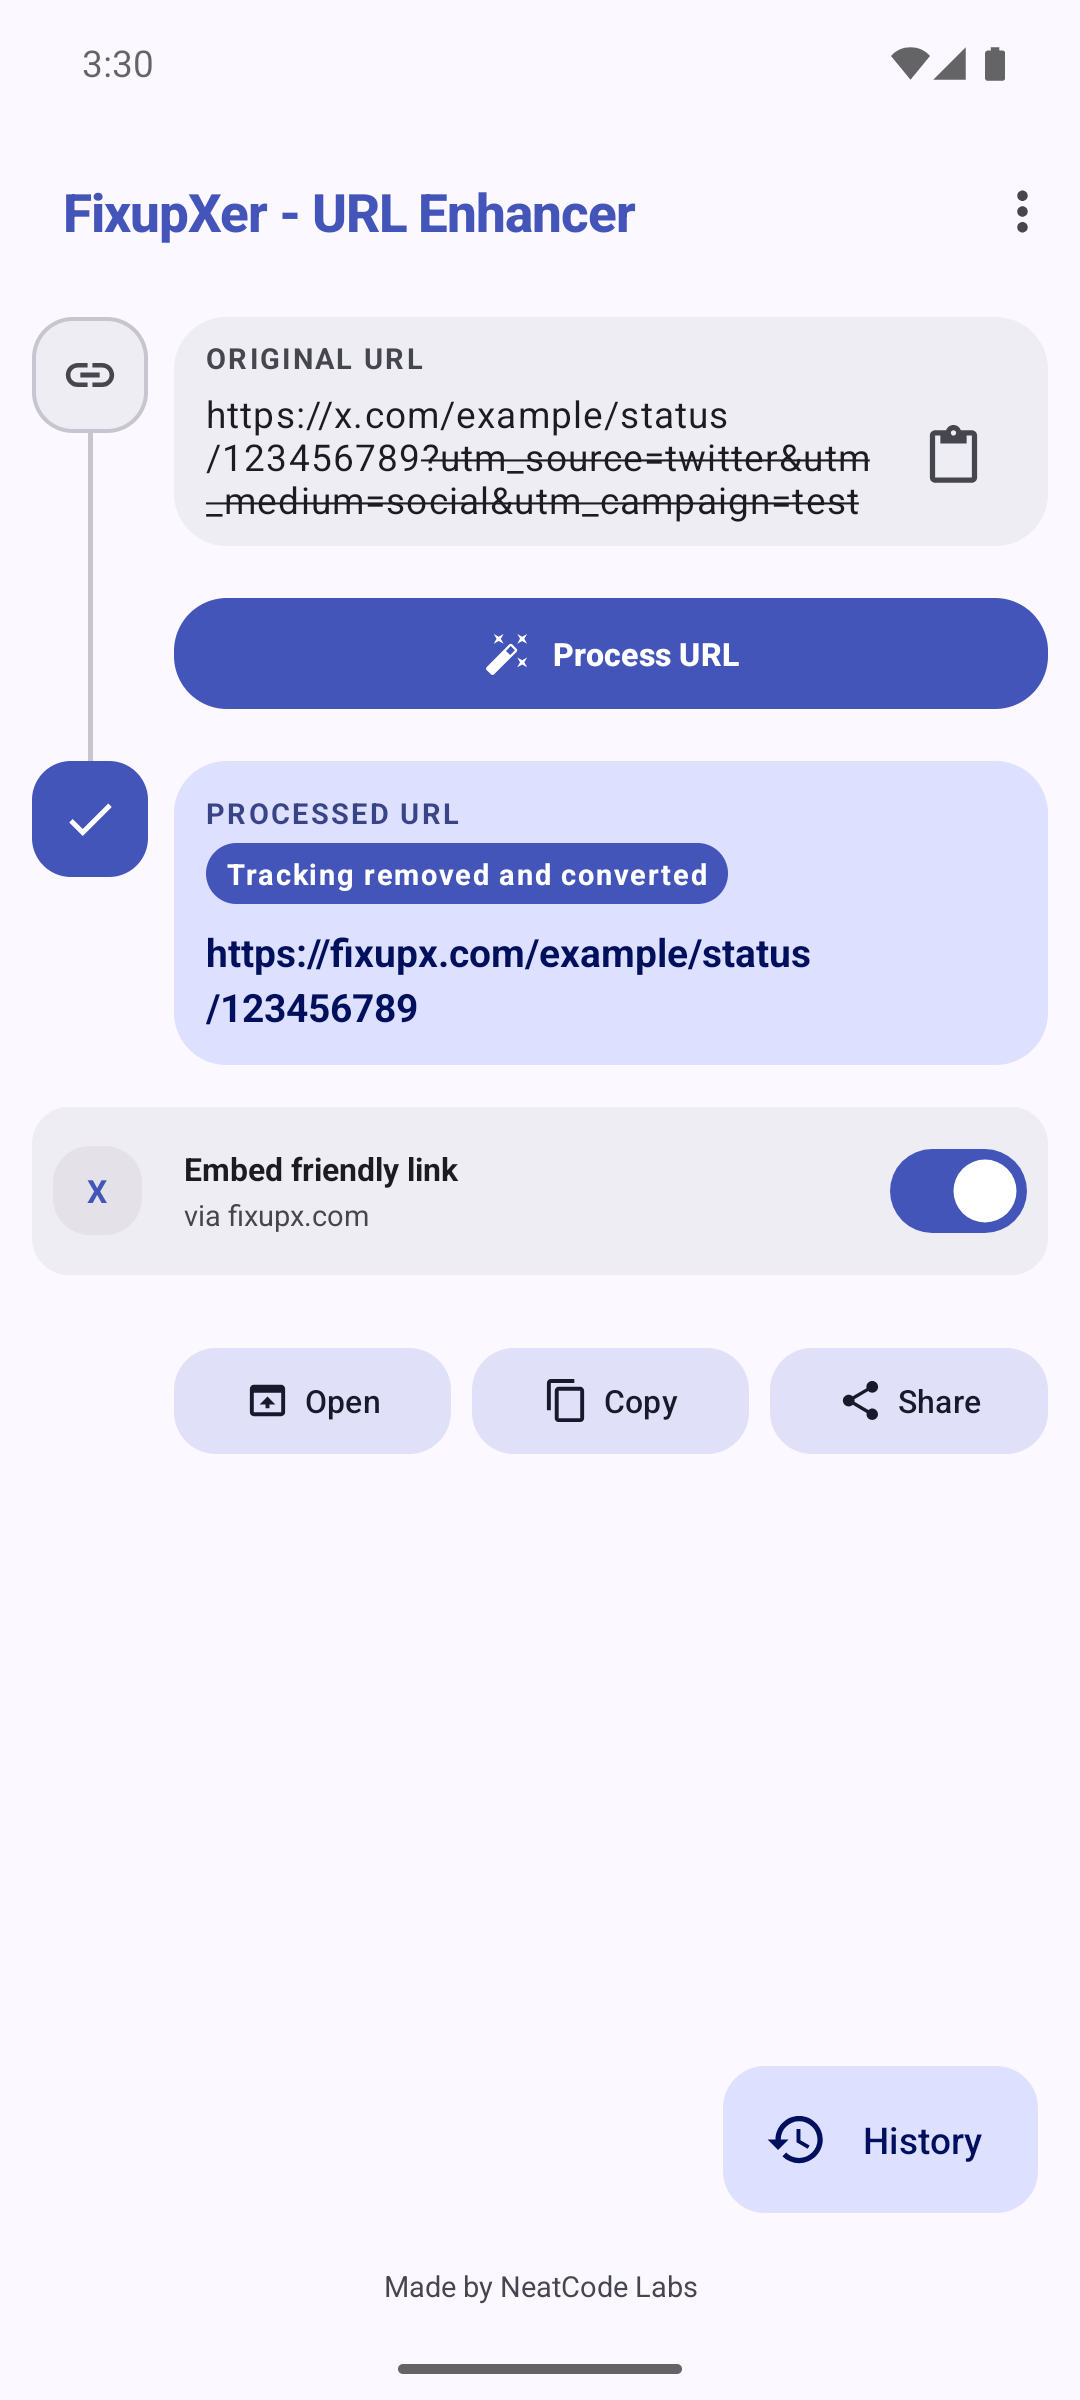
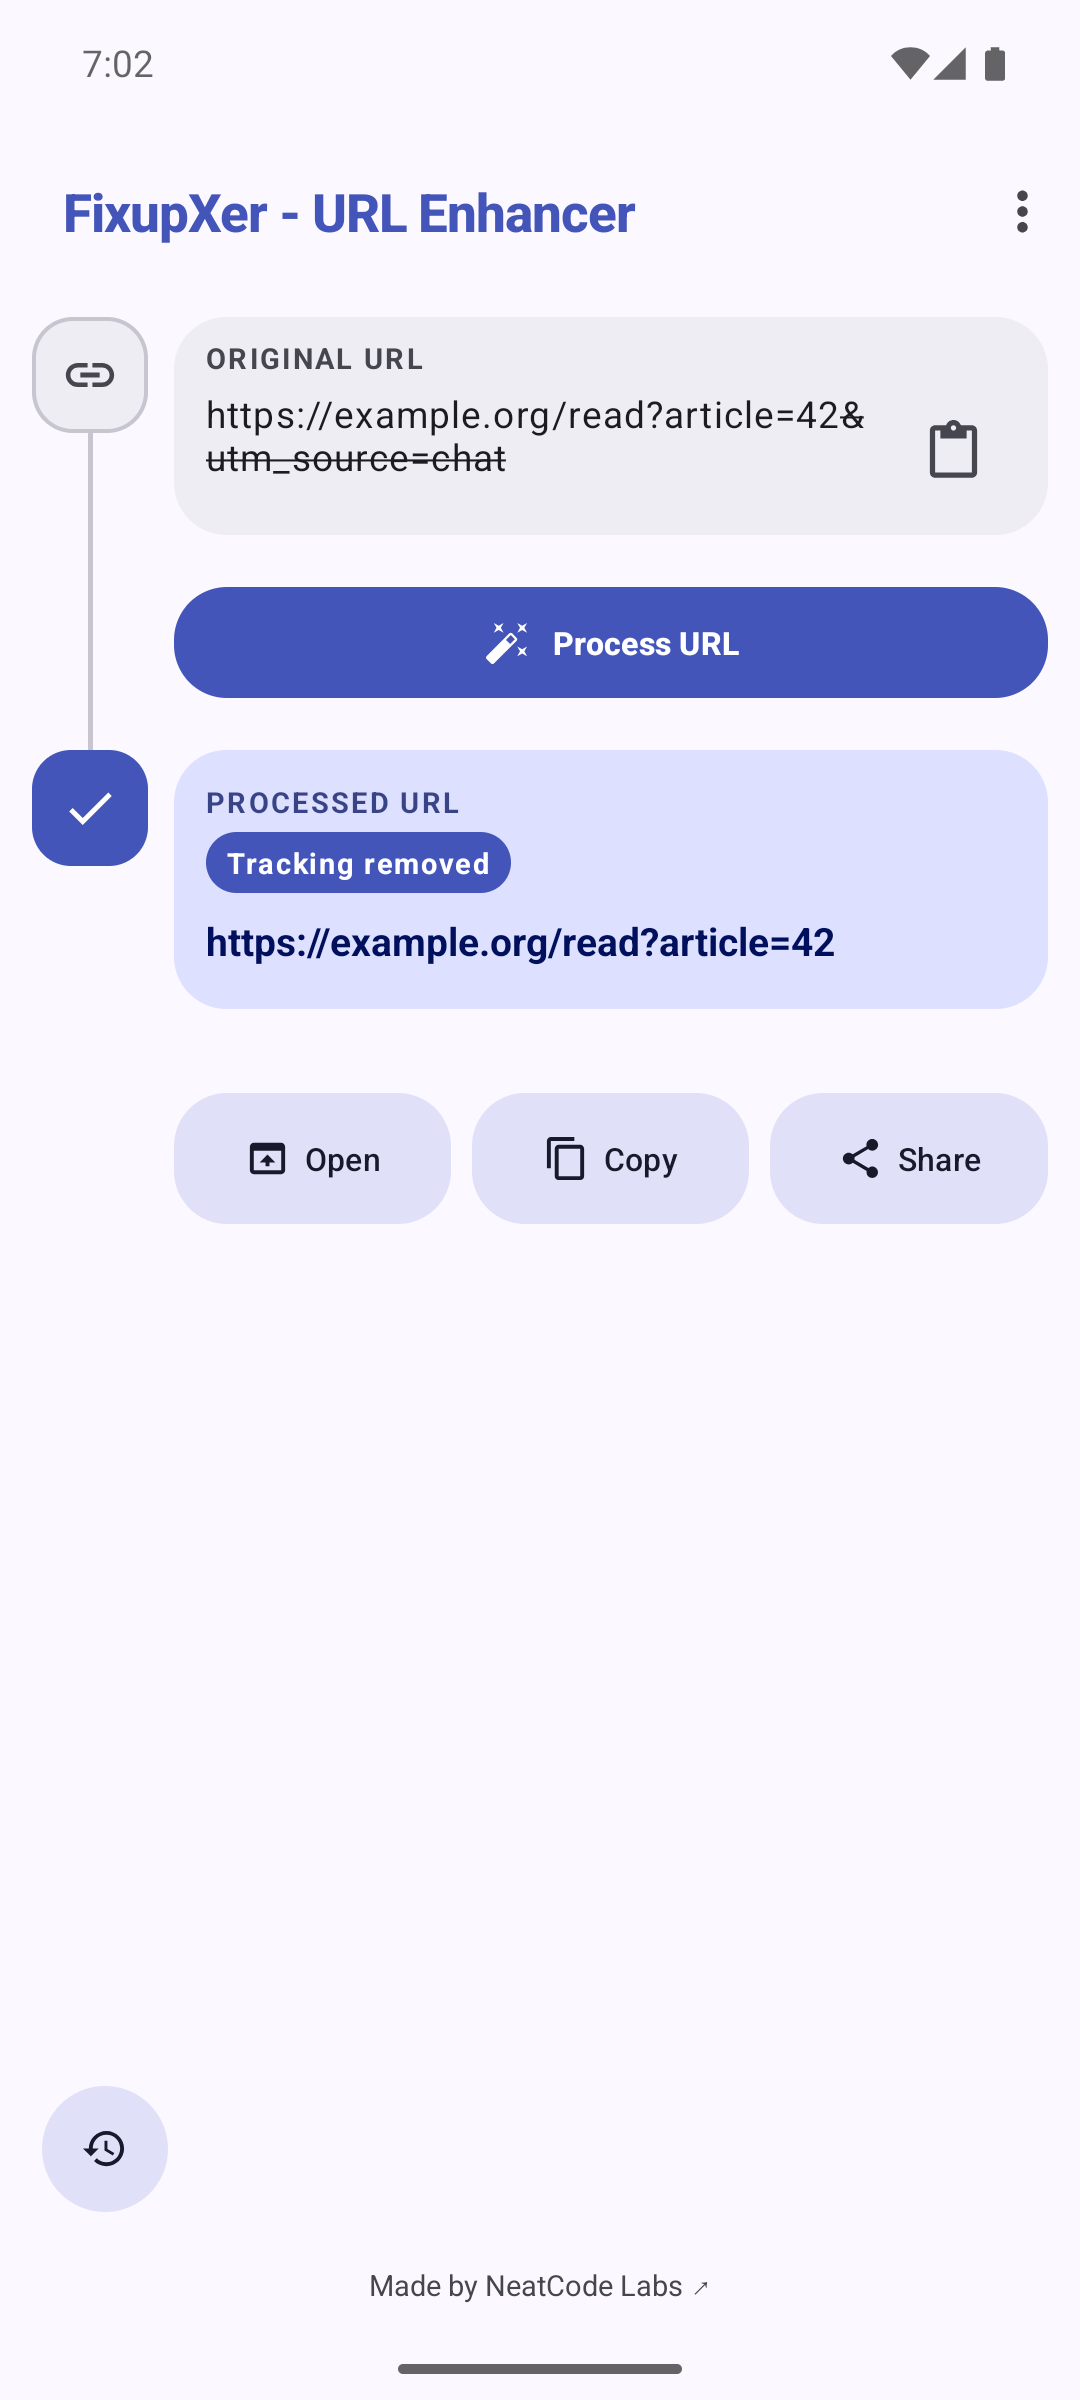
Show practical link workflows with current Android screenshots

diff --git a/README.md b/README.md
@@ -4,7 +4,7 @@
   <img src="app/src/main/res/mipmap-xxxhdpi/ic_launcher.png" width="120" alt="FixupXer app icon">
 </p>
 
-<h3 align="center">Clean tracking from links. Improve social previews. Build your own offline URL rules.</h3>
+<h3 align="center">Cleaner links. X readers without an account. Better previews in your chats.</h3>
 
 <p align="center">
   <a href="https://github.com/NeatCode-Labs/fixupxer/releases/tag/v2.9.0"><img src="https://img.shields.io/badge/version-2.9.0-blue?style=flat-square" alt="Version 2.9.0"></a>
@@ -25,59 +25,66 @@
   <a href="PRIVACY_POLICY.md">Privacy</a>
 </p>
 
-FixupXer is a free, open-source Android URL cleaner. It removes known tracking
-parameters, optionally converts social links to embed-friendly domains, and lets
-you build ordered custom processing rules. Processing runs locally: the app
-declares no permissions and makes no network requests. When you choose an
-Open/Share action, Android hands the resulting URL to the external app you
-selected.
+FixupXer is a free, open-source Android app for cleaning links and choosing where
+they open. Paste a link, share it to FixupXer, or let Browser Mode process links
+Android routes to it. Keep using your usual browser afterwards.
 
-## Highlights
+The app has **no ads, no account, and no Android permissions**. URL processing
+runs entirely on your device. Opening a result hands it to another app or
+website, which has its own network access and privacy policy.
 
-- **Selective tracking cleanup** — known tracking keys from 28 host-bound
-  cleaners and one universal cleaner; unknown functional parameters are kept.
-- **Private Link Guard** — warns when e-mails, tokens, or precise coordinates
-  remain visible in a link — fully offline. Sensitive originals never enter
-  history; with History on, fully cleaned results may be saved with a redacted-input marker.
-- **Custom URL rules** — create ordered scopes, actions, phases, excludes, and
-  context-specific rules without editing raw JSON.
-- **Teach by example** — infer a conservative disabled custom-rule draft from
-  one original URL and its exact desired result.
-- **Alternative frontends** — optional per-platform conversions to
-  embed-friendly domains (Instagram, Facebook, Twitter/X, Bluesky posts,
-  TikTok) or account-free reader frontends (Twitter/X, Bluesky, Reddit,
-  Pinterest, plus experimental YouTube, Threads, and Instagram readers), with
-  user-selectable built-in and custom domains.
-- **Browser Mode** — clean eligible HTTP(S) links that Android routes through
-  FixupXer before handing them to a browser, native app, share menu, or clipboard.
-  Manage frontends directly in Browser settings and remember a preferred browser
-  to avoid choosing it again for each browser-directed link.
-- **Process Text** — select a link in any app and choose “Clean link” to clean
-  it in place, entirely offline.
-- **Local history** — revisit, copy, share, or delete processed links; Undo
-  restores the original entry and time. History is optional and remains on the
-  device.
-- **Private clipboard previews** — copied URL contents are marked sensitive
-  for system previews where Android supports it, with consistent copy feedback.
-- **Manual backup** — export or restore settings, custom rules, and remembered
-  after-clean destinations to a JSON file you choose (history never included).
-- **Modern Android UI** — Material 3 before/after flow, light and dark themes,
-  responsive layouts, handed action placement, and accessible controls.
+## What you can do with it
+
+- **Read public X posts without signing in to X.** Set the X Browser frontend
+  to `twitterviewer.net`, for example, and X links routed through FixupXer open
+  in that reader. Useful when an X sign-in prompt gets in the way of a public
+  post or thread. Available content and complete threads depend on the reader;
+  this does not unlock private posts. See [the setup example below](#read-x-links-in-a-reader).
+- **Share a preview instead of a bare social link.** Convert X links to
+  `fixupx.com`, or choose embed frontends for Instagram, TikTok, and other
+  supported platforms. These services help chat apps display media previews.
+  Your sharing choice is separate from your Browser choice: read an X link in
+  TwitterViewer, but share it through FxEmbed. Preview support depends on the
+  chat app and the external service.
+- **Stop carrying tracking tags into the next chat.** Remove known tracking
+  parameters before copying, sharing, or opening a link. For example,
+  `example.org/read?article=42&utm_source=chat` becomes
+  `example.org/read?article=42`: the article selector stays. Browser Mode can
+  do this for links Android sends to FixupXer, then open your usual browser.
+- **Notice an email address or sign-in token before passing it on.** Private
+  Link Guard flags certain sensitive values still present in a URL. Review
+  them, remove a parameter, or go back. It runs offline, but cannot detect
+  every private value or tell whether one was included intentionally.
+- **Teach it a cleanup the built-in rules do not know.** Supply a before URL
+  and the result you want. For supported cases, such as removing a named query
+  parameter, FixupXer drafts a rule for that site. Review and test it before
+  enabling it. Test Lab shows the result without opening the website.
+- **Choose where each site's links go.** Remember a preferred browser or save
+  an app choice for an exact website host from **Ask what to do**. For example,
+  use an installed compatible native app for one site and your browser for
+  another, without repeating the same choice each time.
+
+Also included: optional local history, manual settings and rule backups,
+custom frontend domains, light and dark themes, and **Clean link** in text
+selection menus where the source app supports Android's Process Text action.
 
 ## Screenshots
 
 <table>
   <tr>
-    <td align="center"><img src="screenshots/main_empty.png" width="220" alt="Main screen empty state"><br><sub><b>Main screen</b></sub></td>
-    <td align="center"><img src="screenshots/main_filled.png" width="220" alt="Processed URL result"><br><sub><b>Before and after</b></sub></td>
-    <td align="center"><img src="screenshots/share_filled.png" width="220" alt="Share screen result"><br><sub><b>Share flow</b></sub></td>
+    <td align="center"><img src="screenshots/browser_reader.png" width="220" alt="X Browser frontend picker with TwitterViewer selected"><br><sub><b>Choose an X reader</b></sub></td>
+    <td align="center"><img src="screenshots/share_filled.png" width="220" alt="Shared X link cleaned and converted to fixupx.com"><br><sub><b>Prepare a link for chat</b></sub></td>
+    <td align="center"><img src="screenshots/main_filled.png" width="220" alt="Tracking parameter removed while article parameter is preserved"><br><sub><b>See what changed</b></sub></td>
   </tr>
   <tr>
-    <td align="center"><img src="screenshots/custom_rules.png" width="220" alt="Custom URL rule library"><br><sub><b>Custom rules</b></sub></td>
-    <td align="center"><img src="screenshots/history.png" width="220" alt="Conversion history"><br><sub><b>Conversion history</b></sub></td>
-    <td align="center"><img src="screenshots/main_dark.png" width="220" alt="Main screen in dark mode"><br><sub><b>Dark mode</b></sub></td>
+    <td align="center"><img src="screenshots/private_link_guard.png" width="220" alt="Warning about a demonstration email address and sign-in token in a link"><br><sub><b>Check before passing it on</b></sub></td>
+    <td align="center"><img src="screenshots/teach_example.png" width="220" alt="Before and desired URLs used to infer a site-specific cleanup rule"><br><sub><b>Teach from an example</b></sub></td>
+    <td align="center"><img src="screenshots/test_lab.png" width="220" alt="Local preview of the example rule removing a newsletter parameter"><br><sub><b>Try the rule locally</b></sub></td>
   </tr>
 </table>
+
+Captured from FixupXer v2.9.0 on an Android 15 emulator. URLs and sensitive
+values shown in the cleaning examples are demonstration data.
 
 ## Quick start
 
@@ -111,6 +118,24 @@ With **Ask what to do** you can save a per-host app choice
 that is applied automatically on future links. Setup, action order,
 conversions, and troubleshooting are in the
 **[Browser mode setup and troubleshooting](docs/HELP.md#browser-mode)**.
+
+### Read X links in a reader
+
+1. Open **Settings > Configure Browser mode > Configure Browser frontends**.
+2. Choose **X / Twitter**, select **twitterviewer.net**, and tap **Save** in
+   the Browser frontends dialog.
+3. With Browser Mode configured, open an X link through FixupXer and choose
+   **Open in browser**. The result opens on the selected reader.
+
+The URL change happens locally: `x.com/<user>/status/<id>` becomes
+`twitterviewer.net/<user>/status/<id>`. The reader then fetches the public
+content. It may show ads or ask for cookie choices, and its availability and
+thread support can change. FixupXer does not operate the reader or bypass
+private-account restrictions.
+
+To keep using `fixupx.com` for outgoing chat links, leave that selected in
+**Settings > Link processing > Alternative frontends > X / Twitter**.
+Main/Share and Browser selections are independent.
 
 ## Custom URL rules
 
@@ -162,7 +187,7 @@ account) and lets you add custom domains for any platform:
 - Facebook links to a user-added custom frontend (no built-in domain is
   bundled; the former `facebookez.com` was retired after it began redirecting
   to an advertising network)
-- Twitter/X links to `fixupx.com` (embed) or readers such as `xcancel.com`,
+- Twitter/X links to `fixupx.com` (embed) or readers such as `twitterviewer.net`, `xcancel.com`,
   `nitter.net`, community Nitter instances, and automatic instance pickers
 - Bluesky post links to `fxbsky.app` (embed) or SkyLib readers
 - Instagram and TikTok links to selectable built-in or custom proxies
